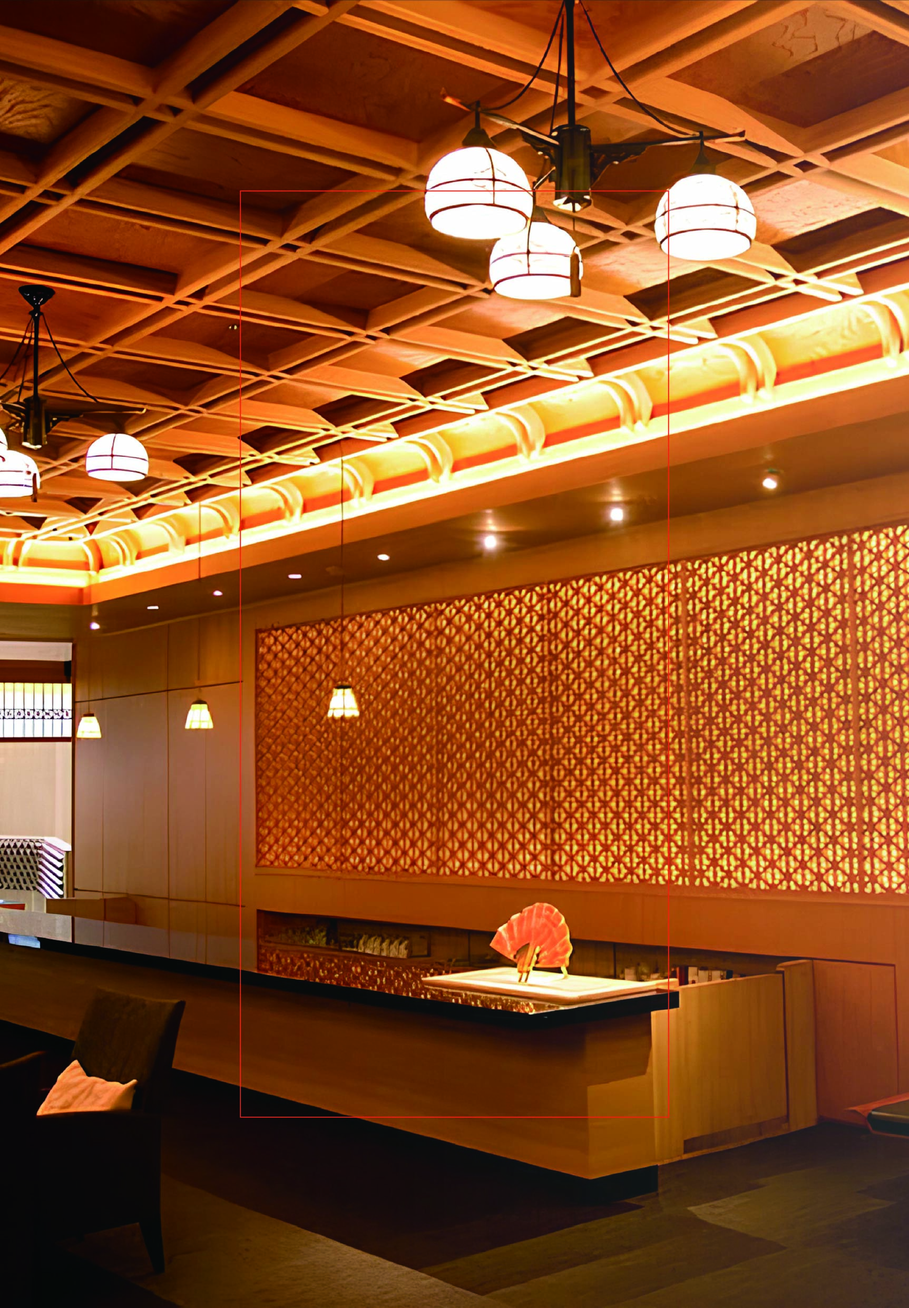
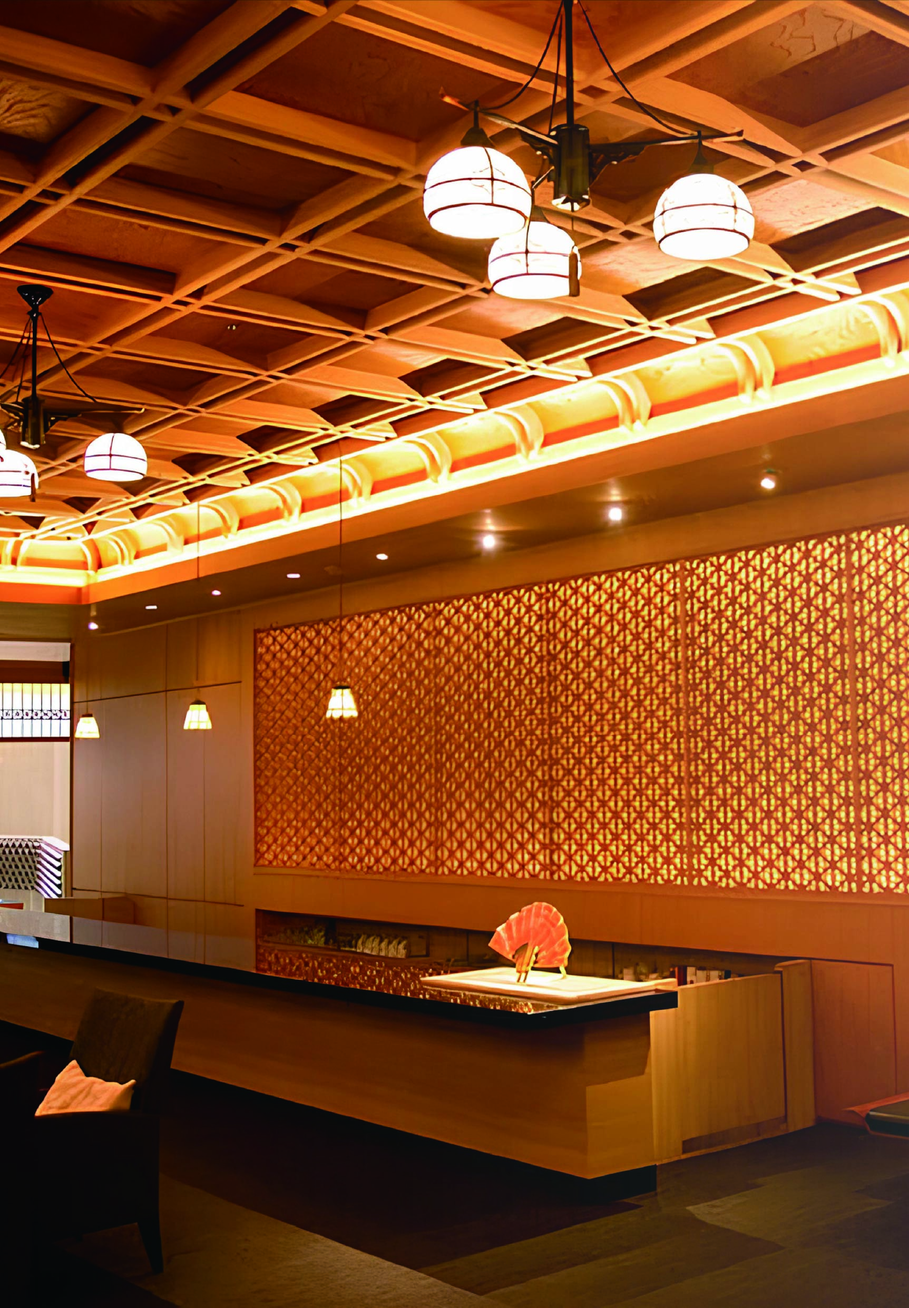
Add files via upload

diff --git a/css/style.css b/css/style.css
@@ -1499,6 +1499,53 @@ iframe {
         right: 0;
         top: 0;
     }
+
+    #events h2 {
+        height: 21px;
+        margin-bottom: 40px;
+        width: 154px;
+    }
+
+    #events h3 {
+        font-size: 23px;
+        line-height: 25px;
+    }
+
+    #events h3 span {
+        font-size: 36px;
+        height: 166.4px;
+    }
+
+    #events h3 span {
+        font-size: 36px;
+        height: 166.4px;
+    }
+
+    #events .events_daytime .event_day p {
+        font-size: 37px;
+    }
+
+    #events .events_daytime .event_time_box {
+        top: 80.5%;
+    }
+
+    #events .events_daytime .event_time_box li {
+        margin: 0 40px;
+    }
+
+    #events .events_daytime .event_time_box p {
+        font-size: 14px;
+    }
+
+    #events .events_daytime .event_time_box p span {
+        font-size: 24px;
+    }
+
+    #events .events_daytime .event_time_box li:nth-of-type(2):before {
+        height: 53px;
+        left: -44px;
+    }
+
 }
 
 @media screen and (max-width: 768px) {
@@ -1540,7 +1587,7 @@ iframe {
 @media screen and (max-width: 768px) {
     /* 1. 挙式日のフォントサイズと両脇の線をスマホ向けに調整 */
     #countdown .goal_time {
-        font-size: 26px;
+        font-size: 30px;
         letter-spacing: 0.15em;
     }
 
@@ -1565,33 +1612,43 @@ iframe {
         max-width: 280px;
         justify-content: center;
         gap: 30px 0; /* 上下ブロック間の余白 */
-        margin-top: 35px; /* 日付との間隔 */
+        height: 259px;
     }
 
     #countdown .count_number li {
         width: 50%;
+        height: 130px;
     }
 
     /* 3. スマホ画面に合わせて数値と単位のサイズを調整 */
     #countdown .count_number .n-number {
-        font-size: 52px;
-        margin-bottom: -8px;
+        font-size: 75px;
+        margin-top: 30px;
     }
 
     #countdown .count_number .dhms {
-        font-size: 13px;
+        font-size: 16px;
         margin-bottom: 0;
     }
+
+    #countdown .countdown_inner {
+        padding: 84px 0 150px;
+    }
+
+    #countdown {
+        margin-bottom: 60px;
+    }
+
 }
 
 /* スマホ表示時のイベントカード調整 */
 @media screen and (max-width: 768px) {
     #events {
-        width: 100%;
+        width: 90%;
     }
     
     #events .events_inner {
-        padding: 80px 15px 60px;
+        padding: 50px 0 40px;
     }
 
     #events .event_content,
@@ -1600,7 +1657,7 @@ iframe {
         float: none;
         width: 100%;
         max-width: 380px;
-        margin: 0 auto 40px;
+        margin: 0 auto;
     }
 
     #events h3 span {
@@ -1608,6 +1665,12 @@ iframe {
         height: auto;
         padding-top: 20px !important;
     }
+
+    #events h2 {
+    margin-bottom: 47px;
+    }
+
+
 }
 
 /* --- スマホ表示時のRSVP（Googleフォーム）のレスポンシブ対応 --- */
@@ -1657,6 +1720,129 @@ iframe {
     #rsvp iframe {
         width: 100% !important;
         max-width: 100% !important;
-        height: 1250px !important; /* コンテンツがすべて収まるように高さを調整 */
+        height: 1000px !important; /* コンテンツがすべて収まるように高さを調整 */
     }
 }
+
+/* --- ファーストビュー h1 のレスポンシブ対応 --- */
+
+/* デフォルト（PCサイズ）ではスマホ用改行を非表示にする */
+#main h1 span .sp_only {
+    display: none;
+}
+
+@media screen and (max-width: 768px) {
+    /* スマホ画面で h1 が画面からはみ出さないよう幅を調整 */
+    #main h1 {
+        width: 100%;
+        max-width: 100%;
+        padding: 0 15px;
+    }
+
+    /* スマホ画面に合わせてタイトル文字サイズを縮小 */
+    #main h1 span {
+        font-size: 30px; 
+    }
+
+    /* スマホサイズになったら改行タグを表示する */
+    #main h1 span .sp_only {
+        display: inline;
+    }
+
+    /* テキスト変更に伴うハンコ画像の微調整 */
+    #main h1 span img {
+        top: -10px;
+        width: 30px;
+        height: auto;
+    }
+}
+
+@media screen and (max-width: 768px) {
+    #introduction #message .message_inner {
+        width: 90%;
+    }
+}
+
+@media screen and (max-width: 1160px) {
+    .index #introduction #profile h2 {
+        height: 21px;
+        width: 186px;
+    }
+
+    #introduction #message h2 {
+        height: 216px;
+        margin-bottom: 67px;
+        width: 42px;
+    }
+
+    #introduction #message a, #introduction #message p {
+        font-size: 16px;
+        letter-spacing: 0;
+        line-height: 2;
+    }
+
+    #countdown h2 {
+        height: 209px;
+        margin-bottom: 8px;
+        width: 60px;
+    }
+
+    #countdown .count_number {
+        height: 259px;
+        max-width: 534px;
+    }
+
+    #events h2 {
+        height: 21px;
+        margin-bottom: 40px;
+        width: 154px;
+    }
+
+
+
+}
+
+@media screen and (max-width: 768px) {
+    .profile_inner {
+        width: 90%;
+    }
+
+    #introduction #profile h2 {
+        height: 19px;
+        margin-bottom: 79px;
+        width: 167px;
+    }
+
+    #introduction #profile .broom:before {
+        left: unset;
+        right: 5px;
+        height: 72px;
+        width: 19px;
+    }
+    
+    #introduction #profile .broom .photo:before {
+        background-image: url(/img/broom_deco.png);
+        top: -10px;
+    }
+
+    #profile .broom .name h3 {
+    margin: 0;
+    }
+
+    #countdown .countdown_content h2 {
+        height: 241px;
+        margin-bottom: 33px;
+        width: 69px;
+    }
+    
+    #events .event_party {
+        padding-top: 15px;
+    }
+
+    #events .events_place p {
+        margin: 5px 0 5px;
+    }
+
+
+}
+

diff --git a/index.html b/index.html
@@ -57,7 +57,7 @@
             </div>
             <span class="keyvisual-fadeIn">
                 <img src="img/keyvisual-hanko.svg">
-                WEDDING INVITATION
+                WEDDING <br class="sp_only">INVITATION
             </span>
         </h1>
 
@@ -130,11 +130,11 @@
                         皆様いかがお過ごしでしょうか<br>
                         このたび 結婚式を<br>
                         執り行うこととなりました<br><br>
-                        日頃お世話になっております皆さまと<br>
-                        心穏やかな時間をともにし<br>
+                        日頃 お世話になっております<br>
+                        みなさまと心穏やかな時間をともにし<br>
                         これまでの感謝を伝えながら<br>
                         新たな門出を見守っていただければと存じます<br>
-                        当日は宿泊を兼ねて おくつろぎいただきながら<br>
+                        当日は おくつろぎいただきながら<br>
                         家族のかけがえのない思い出を共有できる<br>
                         温かな小宴にできれば幸いです<br><br>
                         ご多用中 誠に恐縮ではございますが<br>
@@ -234,10 +234,10 @@
                         </li>
                         <div class="event_time_box">
                             <li class="event_time">
-                                <p>開始時間 <span class="Didot">13:15</span></p>
+                                <p>開始時間 <span class="Didot">14:30</span></p>
                             </li>
                             <li class="event_receptiontime">
-                                <p>受付時間 <span class="Didot">13:00</span></p>
+                                <p>受付時間 <span class="Didot">13:30</span></p>
                             </li>
                         </div>
                     </ul>
@@ -253,7 +253,7 @@
                         </li>
                         <div class="event_time_box">
                             <li class="event_time">
-                                <p>開始時間 <span class="Didot">14:00</span></p>
+                                <p>開始時間 <span class="Didot">16:00</span></p>
                             </li>
                             <li class="event_receptiontime">
                                 <p>受付時間 <span class="Didot">13:30</span></p>
@@ -286,7 +286,7 @@
                         </li>
                         <li class="cloak">
                             <h4>挙式・披露宴会場について</h4>
-                            <p>当日は 挙式をのとやロビーにて、披露宴を合掌造の間で行います<br>
+                            <p>当日は 挙式をのとやロビーにて、披露宴を合掌造の間で行います<br><br>
                                 披露宴会場は履物を脱いでのご参加となります<br>
                             </p>
                         </li>
